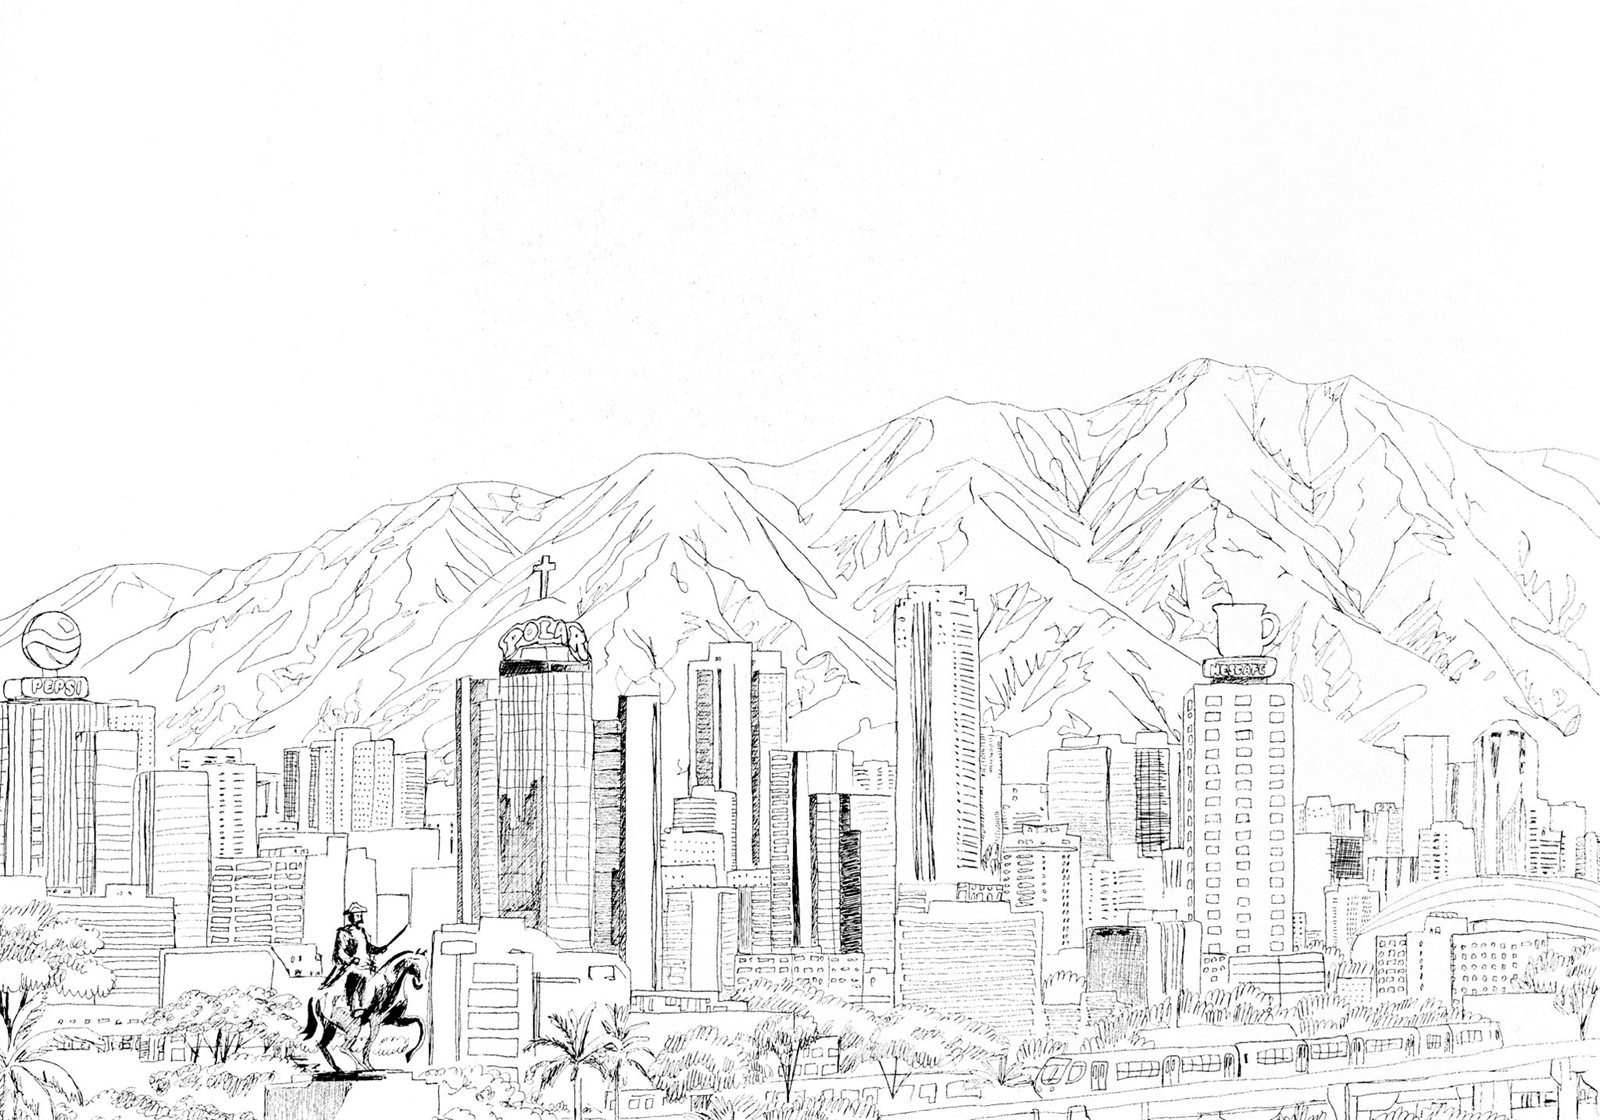
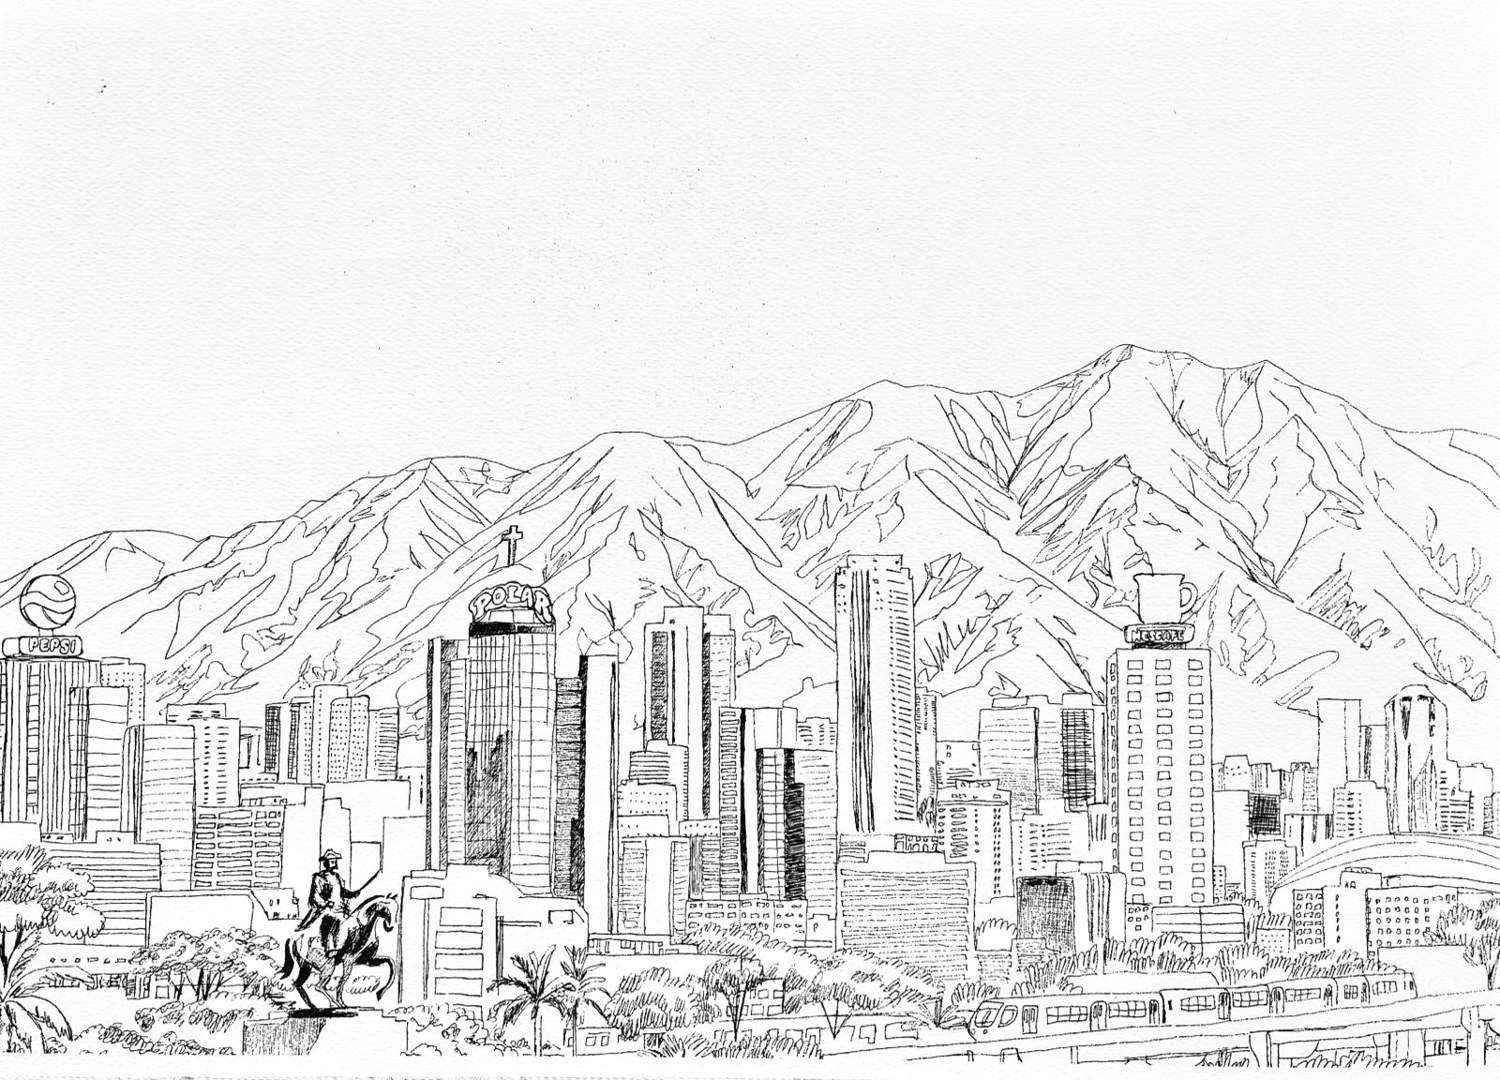
Caracas three-view switcher, size-proportional tiles, rewritten copy
- Replace caracas-skyline with three switchable views (watercolour
  headline, colour, pen stencil) in the detail modal
- Make gallery tiles scale by their size tag (small/medium/large);
  add cache-busting to css/js so the change reaches returning visitors
- Rewrite every artwork description to match the actual image; remove
  hyphens from descriptions, medium/tag labels, and the About copy
- Rewrite the About section (no hyphens)
- Crop the table edge off fleurs; remove the awesome piece

Changed region(s): [[0.0, 0.3056, 1.0, 1.0]]

diff --git a/js/catalog.js b/js/catalog.js
@@ -11,10 +11,9 @@
 const ASSET_FILES = [
   '2000-2026-acrylic-large.jpg',
   'angel-2021-pencil-medium.jpg',
-  'awesome-2026-acrylic-small.jpg',
   'barcelona-2024-acrylic-large.jpg',
   'bogota-2026-acrylic-large.jpg',
-  'caracas-skyline-2026-acrylicpen-medium.jpg',
+  'caracas-skyline-2026-watercolor-medium.jpg',
   'chamo-2026-acrylic-large.jpg',
   'colorin-2021-oil-large.jpg',
   'feriado-2025-pen-medium.jpg',
@@ -60,58 +59,59 @@ const TITLE_FIXES = {
 };
 const MEDIUM_FIXES = {
   'acylic':      'acrylic',
-  'acrylicpen':  'acrylic + pen',
-  'colorpencil': 'color-pencil',
-  'oilpastel':   'oil-pastel',
-  'drypastel':   'dry-pastel',
+  'acrylicpen':  'acrylic and pen',
+  'colorpencil': 'colour pencil',
+  'oilpastel':   'oil pastel',
+  'drypastel':   'dry pastel',
+  'watercolor':  'watercolour',
 };
 const DESCRIPTIONS = {
-  'caracas-skyline': 'Caracas skyline in a cartoon/comic style — acrylic and pen mixed media, medium canvas, with El Ávila rising behind the city.',
-  'venezia':       'A wide oil composition of the Venetian lagoon, the largest piece in the catalogue.',
-  'barcelona':     'Modernist façade study captured during a residency in Spain.',
-  'bogota':        'High-altitude rooftops painted from sketches taken in Bogotá, 2026.',
-  'tokyo':         'Pen-and-ink figures from a sketch trip through Tokyo.',
-  'porto':         'Ceramic-effect impasto inspired by Portuguese azulejos.',
-  'fleurs':        'Acrylic botanical study, large canvas.',
-  'jazz':          'Improvised acrylic mark-making to a Bill Evans record.',
-  'sloth':         'Small acrylic creature study; one of the recurring animal subjects.',
-  'ladybug':       'Color-pencil close-up; deliberately oversaturated reds.',
-  'wizard':        'A small color-pencil portrait piece, 2021.',
-  'angel':         'Graphite portrait in HB / 2B pencil, medium A3.',
-  'laia':          'Pencil portrait of a friend; soft edges, high-key lighting.',
-  'mimir':         'Dry pastel sleep study, 2021.',
-  'men':           'Dry pastel figure work; quick gestural drawing.',
-  'colorin':       'Oil composition exploring complementary colour palettes.',
-  'newspaper':     'Oil-pastel collage referencing newspaper textures.',
-  'grocery':       'Still-life of a grocery counter, oil pastel.',
-  'luck':          'Lucky charms still life in oil pastel.',
-  'peach':         'Alcohol-marker fruit study with cool shadows.',
-  'run':           'Movement study in alcohol marker — runners mid-stride.',
-  'awesome':       'Acrylic word study, small canvas.',
-  '2000':          'Acrylic typography piece celebrating the millennium.',
-  'feriado':       'Pen-on-paper holiday scene.',
-  'ganado':        'Pen study of cattle, A4.',
-  'pescadito':     'Acrylic fish piece, palette knife on canvas.',
-  'simona':        'Large acrylic portrait of Simona, 2026.',
-  'chamo':         'Acrylic study of a Venezuelan chamo (kid) on the street.',
-  'portugal':      'Small acrylic landscape, Portuguese coastline.',
-  'san-fransisco': 'Small acrylic of the San Francisco skyline.',
-  'vtech':         'Alcohol-marker tech-toy study.',
-  'zahra':         'Oil portrait, medium canvas.',
-  'sloth-2023':    'Small acrylic creature study.',
+  'caracas-skyline': 'The Caracas skyline beneath El Ávila, the green mountain that watches over the city. The piece lives in three renderings you can switch between, a clean pen line, a bold colour version and a soft watercolour, each carrying the same towers and the Polar and Nescafé signs locals know by heart.',
+  'venezia':       'A wide oil view of the Venetian lagoon, water and faded façades meeting in low light. The largest piece in the catalogue.',
+  'barcelona':     'The city built from its own colour and clamour, letters tangled around a watching eye. A keepsake of time spent in Spain.',
+  'bogota':        'Bogotá spelled out in bright stacked letters, loud and playful, a postcard from the high Andean capital.',
+  'tokyo':         'A quiet station platform in pen, commuters and signage caught in the clean lines of a travel sketch.',
+  'porto':         'Two blue fish on a white ceramic tile, a nod to Portuguese azulejos and the thick glaze of fired clay.',
+  'fleurs':        'A homage to the old Neuilly sur Seine flower festival poster, dancers and roses crowded into warm acrylic.',
+  'jazz':          'A band of crocodiles lost in their playing, horns and stray notes drifting across the canvas. Acrylic improvised to a jazz record.',
+  'sloth':         'A sloth stretched along a branch, slow and content, a small acrylic from the recurring animal cast.',
+  'ladybug':       'A ladybug seen up close in colour pencil, its reds pushed past life into something jewel bright.',
+  'wizard':        'A young student under a ceiling of floating candles, a colour pencil nod to a beloved world of wizardry.',
+  'angel':         'A winged figure at rest, graphite worked from the softest greys down to deep shadow.',
+  'laia':          'A girl in a sun hat and swimsuit, a pencil portrait of high soft light and gentle edges.',
+  'mimir':         'A girl curled on a staircase, caught somewhere between rest and daydream, in dry pastel.',
+  'men':           'A male figure seen from behind, hands at the neck, a dry pastel study of weight and muscle.',
+  'colorin':       'A hummingbird ablaze with colour, oil built up in small jewelled strokes. The title nods to the bright birds of Venezuela.',
+  'newspaper':     'A folded paper boat adrift on swirling water, oil pastel, small and hopeful against the current.',
+  'grocery':       'Two teddy bears steering a cart piled high with groceries, oil pastel full of warmth and happy clutter.',
+  'luck':          'A girl in red seated on worn steps, ladybugs scattered around her like small tokens of luck. Oil pastel.',
+  'peach':         'A white cat asleep on a bench, alcohol marker with cool shadows and soft, drowsy fur.',
+  'run':           'A baseball moment, the batter set and the field alive, drawn quickly in alcohol marker.',
+  '2000':          'A candy bright cityscape packed with towers, signs and tiny figures, a millennium piece bursting with acrylic energy.',
+  'feriado':       'A holiday plaza in pen, a bandstand among palms with families strolling on a day off.',
+  'ganado':        'Two figures leaning on a rail above the pens, watching the cattle at a country fair. Pen lifted with light colour.',
+  'pescadito':     'A little fish and a few lemons on striped cloth, a quiet acrylic still life with a kitchen calm.',
+  'simona':        'An oil portrait of Simona, a tortoiseshell cat whose coat is a patchwork of warm darks.',
+  'chamo':         'A bear hugging a carton of Polar against a burst of yellow rays, a fond acrylic wink at Venezuelan street life.',
+  'portugal':      'A teddy bear in a pink sun hat with pastel houses behind it, a small acrylic souvenir of the Portuguese coast.',
+  'san-fransisco': 'Two teddy bears at a picnic beneath the Golden Gate, a small acrylic where the great landmark turns tender.',
+  'vtech':         'A child bent over a toy laptop, lost in play, alcohol marker. A soft look at the very first screens.',
+  'zahra':         'An oil portrait of baby Zahra asleep on a dark sofa, all soft weight and quiet.',
+  'sloth-2023':    'A small acrylic creature study, one of the recurring animal subjects.',
 };
 
 const TAG_MAP = {
-  acrylic:        ['acrylic', 'canvas', 'paint'],
-  'acrylic + pen': ['acrylic', 'pen', 'mixed-media', 'canvas'],
-  oil:            ['oil', 'canvas'],
-  alcohol:        ['marker', 'paper'],
-  pen:            ['pen', 'ink', 'paper'],
-  pencil:         ['pencil', 'paper'],
-  'oil-pastel':   ['pastel', 'paper'],
-  'dry-pastel':   ['pastel', 'paper'],
-  'color-pencil': ['color', 'pencil', 'paper'],
-  ceramic:        ['ceramic', 'impasto'],
+  acrylic:            ['acrylic', 'canvas', 'paint'],
+  'acrylic and pen':  ['acrylic', 'pen', 'mixed media', 'canvas'],
+  watercolour:        ['watercolour', 'pen', 'paper'],
+  oil:                ['oil', 'canvas'],
+  alcohol:            ['marker', 'paper'],
+  pen:                ['pen', 'ink', 'paper'],
+  pencil:             ['pencil', 'paper'],
+  'oil pastel':       ['pastel', 'paper'],
+  'dry pastel':       ['pastel', 'paper'],
+  'colour pencil':    ['colour', 'pencil', 'paper'],
+  ceramic:            ['ceramic', 'impasto'],
 };
 
 function titleCase(slug) {
@@ -169,8 +169,9 @@ const SEED_USERS = [
  * (rather than on the Artwork model) so it survives without touching the OOP
  * persistence layer. */
 const ALT_VIEWS = {
-  'assets/caracas-skyline-2026-acrylicpen-medium.jpg': [
-    { imageUrl: 'assets/caracas-skyline-2026-acrylicpen-medium.jpg', label: 'Colour' },
+  'assets/caracas-skyline-2026-watercolor-medium.jpg': [
+    { imageUrl: 'assets/caracas-skyline-2026-watercolor-medium.jpg', label: 'Watercolour' },
+    { imageUrl: 'assets/caracas-skyline-comic.jpg',                  label: 'Colour' },
     { imageUrl: 'assets/caracas-skyline-stencil.jpg',                label: 'Pen stencil' },
   ],
 };
@@ -180,13 +181,13 @@ const ALT_VIEWS = {
  * Fill these in over time; they render under the description in the detail
  * modal and are great for visitors and SEO. */
 const STORIES = {
-  'caracas-skyline': '',
+  'caracas-skyline': 'One skyline drawn three ways. The pen study came first, every tower and sign set down by hand, then the same scene was carried into colour and finally into watercolour. Use the buttons under the image to move between them.',
   // 'venezia': 'The story behind this piece…',
 };
 
 /* Bump this whenever the seed catalogue changes (pieces added/removed/renamed)
  * so returning visitors get the updated gallery instead of a stale cached one. */
-const CATALOG_VERSION = '2026-06-05-1';
+const CATALOG_VERSION = '2026-06-08-1';
 
 window.GalleryCatalog = { SEED_ARTWORKS, SEED_USERS, ALT_VIEWS, STORIES, CATALOG_VERSION };
 })();

diff --git a/index.html b/index.html
@@ -5,7 +5,7 @@
   <meta name="viewport" content="width=device-width, initial-scale=1" />
   <title>Arte de la Montaña</title>
   <link rel="icon" href="assets/andean-bear-icon.png" />
-  <link rel="stylesheet" href="css/styles.css" />
+  <link rel="stylesheet" href="css/styles.css?v=2026-06-08" />
 </head>
 <body>
   <header id="topbar">
@@ -44,24 +44,24 @@
           <p>
             Arte de la Montaña is the personal studio of
             <strong>Andrea “Pelusa” Montaña</strong>, a painter working across
-            acrylic, oil, pen, pencil, alcohol markers and pastel. “Pelusa” —
-            Spanish for <em>fuzz</em> — has been her nickname since birth, when
-            her first hair grew in soft and downy; it sits happily alongside the
-            teddy-bear motif that recurs in her work.
+            acrylic, oil, pen, pencil, alcohol markers and pastel. “Pelusa,”
+            Spanish for <em>fuzz</em>, has been her nickname since birth, when her
+            first hair grew in soft and downy. It sits happily beside the teddy
+            bear that keeps wandering in and out of her work.
           </p>
           <p>
-            Her work has been admitted into prestigious institutions, such as
-            Parsons School of Design. Her work was influenced and mentored under
-            Lina Sinisterra, a top 50 recognized CollegeBoard multimedia artist.
+            Her work has been admitted into respected institutions, among them
+            Parsons School of Design, and was shaped under the mentorship of Lina
+            Sinisterra, a CollegeBoard recognised multimedia artist.
           </p>
           <p>
             The catalogue gathers studies and finished pieces made between 2020 and
-            2026; from quick pen sketches of urban life to large acrylic canvases of
-            cityscapes. She uses a quite childish and immature expression in her
-            paintings.
+            2026, from quick pen sketches of city life to large acrylic canvases of
+            skylines. Her hand stays deliberately childlike, an open and unguarded
+            way of seeing.
           </p>
           <p>
-            Every piece in this gallery is real, painted by hand, and lives in the studio
+            Every piece here is real, painted by hand, and lives in the studio
             until it finds a home. Use the <a href="#order" data-view="order">Order</a>
             page to enquire about any of them.
           </p>
@@ -73,11 +73,10 @@
         <div>
           <h3>Influences</h3>
           <p>
-            From childhood memories of the desert and the hot sun to learning in
-            global academic environments, the work draws on travel, family stories
-            and the textures of paper, canvas and ceramic. Animal subjects recur
-            across the catalogue, from the ladybug to the Andean bear
-            that gives this site its mark.
+            From childhood memories of the desert and the high sun to years inside
+            global classrooms, the work draws on travel, family stories and the
+            textures of paper, canvas and clay. Animals return again and again,
+            from the ladybug to the Andean bear that gives this site its mark.
           </p>
           <img src="assets/self-portrait-stencil.png" alt="" class="stencil" />
         </div>
@@ -134,7 +133,7 @@
           </label>
 
           <label class="full">Message
-            <textarea name="message" rows="4" placeholder="Anything we should know — subject, dimensions, medium, deadline…"></textarea>
+            <textarea name="message" rows="4" placeholder="Anything we should know: subject, dimensions, medium, deadline…"></textarea>
           </label>
         </div>
 
@@ -166,11 +165,11 @@
 
   <div id="toast-root"></div>
 
-  <script src="js/exceptions.js"></script>
-  <script src="js/models.js"></script>
-  <script src="js/dao.js"></script>
-  <script src="js/services.js"></script>
-  <script src="js/catalog.js"></script>
-  <script src="js/app.js"></script>
+  <script src="js/exceptions.js?v=2026-06-08"></script>
+  <script src="js/models.js?v=2026-06-08"></script>
+  <script src="js/dao.js?v=2026-06-08"></script>
+  <script src="js/services.js?v=2026-06-08"></script>
+  <script src="js/catalog.js?v=2026-06-08"></script>
+  <script src="js/app.js?v=2026-06-08"></script>
 </body>
 </html>

diff --git a/css/styles.css b/css/styles.css
@@ -91,6 +91,14 @@ button.primary:hover { background: var(--accent); border-color: var(--accent); }
 }
 .tile:hover { transform: translateY(-2px); box-shadow: 0 14px 30px rgba(34, 29, 24, .15); }
 .tile img { width: 100%; height: auto; display: block; }
+
+/* Tile footprint scales with the piece's size tag, so a small bookmark
+ * doesn't blow up to the same width as a large canvas. Narrower tiles are
+ * centred within their masonry column. */
+.tile[data-size="extralarge"] { width: 100%; }
+.tile[data-size="large"]      { width: 100%; }
+.tile[data-size="medium"]     { display: block; width: 80%; margin-left: auto; margin-right: auto; }
+.tile[data-size="small"]      { display: block; width: 58%; margin-left: auto; margin-right: auto; }
 .tile .caption {
   position: absolute; left: 0; right: 0; bottom: 0;
   padding: .55rem .8rem; font-size: .82rem; color: var(--paper);

diff --git a/js/app.js b/js/app.js
@@ -91,7 +91,7 @@ const GalleryUI = {
     const grid = $('#gallery-grid');
     const rows = gallery.list({ sort: 'year-desc' });
     grid.innerHTML = rows.map(a => `
-      <a class="tile" data-id="${a.id}" title="${escapeHtml(a.title)} (${a.year})">
+      <a class="tile" data-id="${a.id}" data-size="${escapeHtml(a.size)}" title="${escapeHtml(a.title)} (${a.year})">
         <img src="${escapeHtml(a.imageUrl)}" alt="${escapeHtml(a.title)}" loading="lazy" />
         <span class="caption">${escapeHtml(a.title)} · ${a.year}</span>
       </a>
